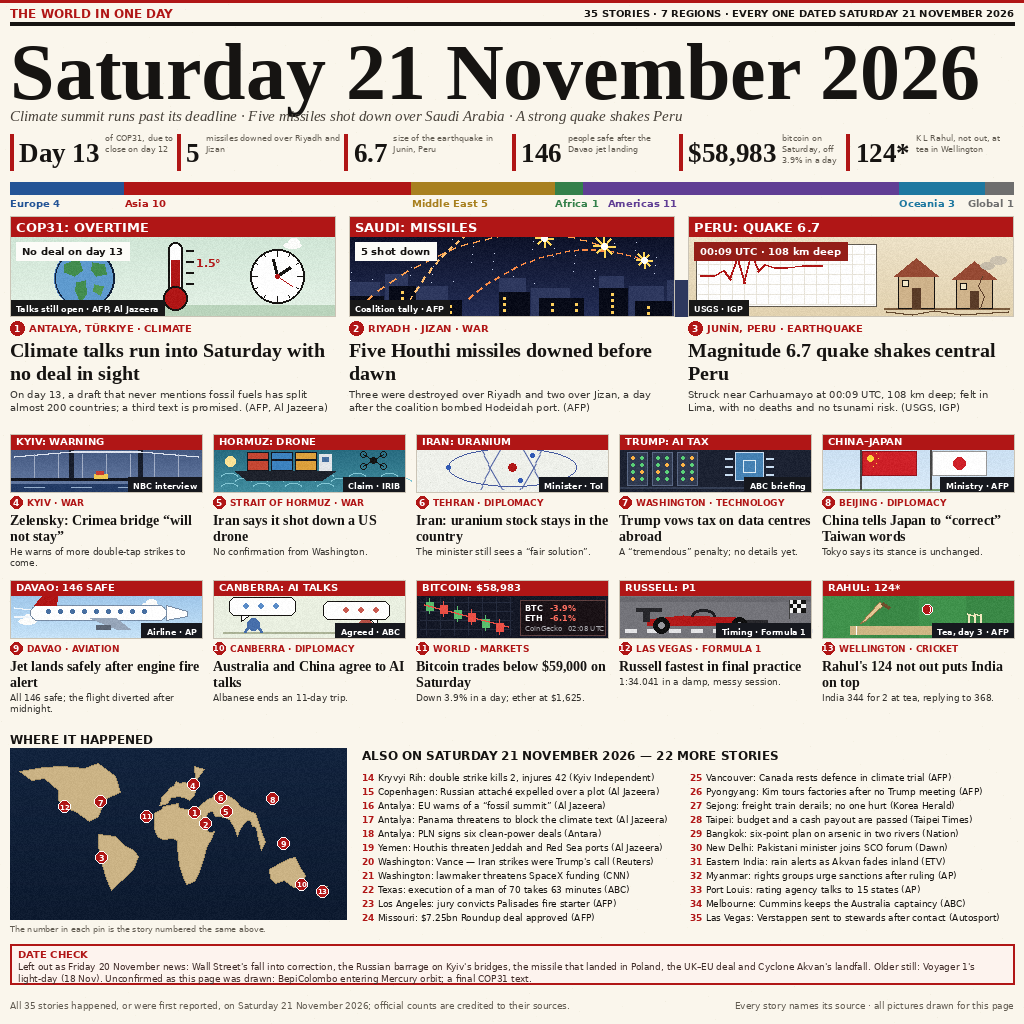
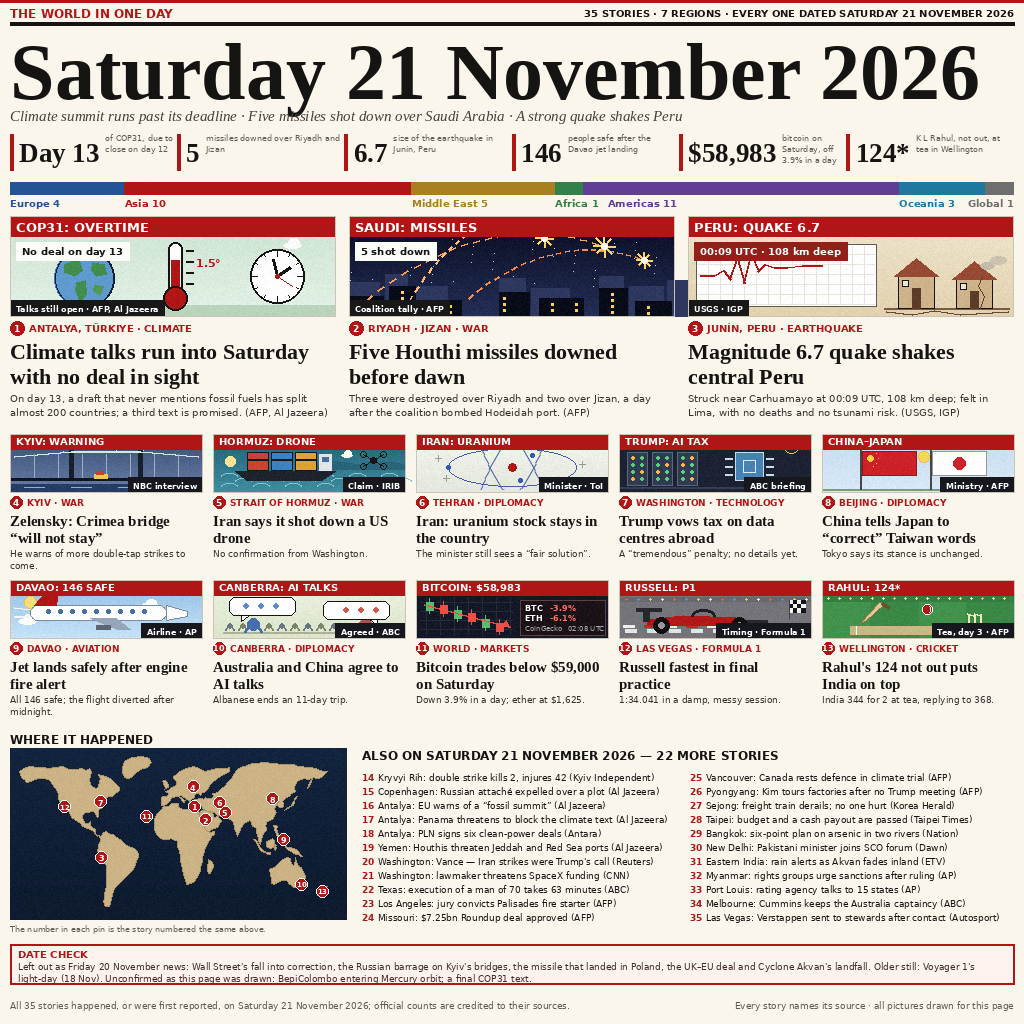
Round 5: polish pass — denser world-map coastlines with island chains (Hudson Bay, Africa horn, India triangle, SE Asia, Indonesia, Japan), background layers for the ten small scenes (Kyiv stars and moon, Hormuz headland, talks crowd, F1 crowd and kerbs, cricket crowd band, suns, atom gradient), and

diff --git a/render.py b/render.py
@@ -1,11 +1,15 @@
-"""Render the front page for Saturday 21 November 2026 (round 4).
+"""Render the front page for Saturday 21 November 2026 (round 5).
 
-Round 4 converges the page onto the composition of the current top
-entry of this competition: red banner strips inside every scene, a
-micro-fact chip under each hero banner, a source strip along the
-bottom-left of each hero scene, dark fact chips on the small scenes,
-a tall dark-navy world map with the ALSO list running beside it, and
-denser, grain-textured scene drawings. Facts, figures, story choice
+Round 5 is a polish pass on round 4, which had converged the page
+onto the composition of the current top entry of this competition:
+red banner strips inside every scene, a micro-fact chip under each
+hero banner, a source strip along the bottom-left of each hero
+scene, dark fact chips on the small scenes, a tall dark-navy world
+map with the ALSO list running beside it, and denser, grain-textured
+scene drawings. Round 5 redraws the map with denser, more accurate
+coastlines and island chains, gives the ten small scenes the same
+background layer the hero row has, and nudges the headline type
+closer to the top entry's proportions. Facts, figures, story choice
 and layout grammar follow the day's verified reporting; every
 headline and summary is this page's own wording.
 
@@ -348,6 +352,12 @@ def scene_quake(d, img, x, y, w, h):
 
 def scene_bridge(d, img, x, y, w, h):
     vgrad(d, x, y, w, h, (56, 76, 116), (104, 126, 166))
+    for i in range(26):
+        sx = x + (i * 53) % int(w)
+        sy = y + 3 + (i * 29) % 15
+        d.point((sx, sy), fill=(215, 224, 240))
+    d.ellipse([x + 9, y + 4, x + 19, y + 14], fill=(238, 240, 244))
+    d.ellipse([x + 13, y + 3, x + 23, y + 13], fill=(59, 79, 118))
     d.rectangle([x, y + h - 8, x + w, y + h], fill=(36, 60, 102))
     for i in range(4):
         d.line([x + 14 + i * 47, y + h - 5, x + 34 + i * 47, y + h - 5],
@@ -369,6 +379,10 @@ def scene_bridge(d, img, x, y, w, h):
 
 def scene_hormuz(d, img, x, y, w, h):
     vgrad(d, x, y, w, h, (32, 96, 118), (64, 140, 158))
+    d.polygon([(x + 92, y + 32), (x + 118, y + 26), (x + 148, y + 30),
+               (x + 176, y + 27), (x + w, y + 30), (x + w, y + 35),
+               (x + 92, y + 35)], fill=(42, 100, 120))
+    cloud(d, x + 128, y + 19, 0.45)
     for row in range(3):
         for i in range(6):
             ax = x + 8 + i * 32 + (row % 2) * 14
@@ -403,7 +417,7 @@ def _orbit(img, cx, cy, rx, ry, angle, color):
 
 
 def scene_atom(d, img, x, y, w, h):
-    d.rectangle([x, y, x + w, y + h], fill=(238, 240, 234))
+    vgrad(d, x, y, w, h, (243, 245, 239), (229, 232, 222))
     for gx in range(x + 14, x + w, 18):
         for gy in range(y + 20, y + h, 14):
             d.point((gx, gy), fill=(214, 218, 208))
@@ -414,11 +428,22 @@ def scene_atom(d, img, x, y, w, h):
     for ex, ey in [(cx - w // 3, cy), (cx + 20, cy - 12), (cx + 8, cy + 13)]:
         d.ellipse([ex - 2, ey - 2, ex + 2, ey + 2], fill=(50, 90, 180))
     d.ellipse([cx - 4, cy - 4, cx + 4, cy + 4], fill=RED)
+    for sx, sy in [(x + 22, y + 24), (x + w - 26, y + 30),
+                   (x + 30, y + h - 14)]:
+        d.line([sx - 3, sy, sx + 3, sy], fill=(148, 158, 138), width=1)
+        d.line([sx, sy - 3, sx, sy + 3], fill=(148, 158, 138), width=1)
 
 
 def scene_aitax(d, img, x, y, w, h):
     d.rectangle([x, y, x + w, y + h], fill=(28, 34, 50))
     d.line([x, y + h - 5, x + w, y + h - 5], fill=(52, 62, 84), width=2)
+    for i in range(5):
+        lx = x + 14 + i * 38
+        d.ellipse([lx, y + 5, lx + 5, y + 10], fill=(206, 222, 240))
+    d.ellipse([x + w - 27, y + 5, x + w - 13, y + 19],
+              outline=(255, 190, 90), width=1)
+    d.text((x + w - 23, y + 8), "%", font=font(SANS_B, 8),
+           fill=(255, 190, 90))
     for i, rx in enumerate((x + 8, x + 33, x + 58)):
         d.rectangle([rx, y + 18, rx + 20, y + h - 7], fill=(48, 58, 80),
                     outline=(90, 104, 132), width=1)
@@ -442,6 +467,8 @@ def scene_aitax(d, img, x, y, w, h):
 
 def scene_flags(d, img, x, y, w, h):
     vgrad(d, x, y, w, h, (198, 220, 240), (216, 233, 247))
+    d.ellipse([x + 96, y + 17, x + 107, y + 28], fill=(250, 214, 90),
+              outline=(240, 190, 70), width=1)
     cloud(d, x + 130, y + 24, 0.55)
     d.line([x, y + h - 3, x + w, y + h - 3], fill=(120, 160, 110), width=2)
     for px, kind in [(x + 38, "cn"), (x + w - 84, "jp")]:
@@ -463,6 +490,8 @@ def scene_flags(d, img, x, y, w, h):
 
 def scene_jet(d, img, x, y, w, h):
     vgrad(d, x, y, w, h, (146, 190, 230), (198, 226, 247))
+    d.ellipse([x + 14, y + 16, x + 26, y + 28], fill=(250, 220, 120),
+              outline=(240, 195, 80), width=1)
     cloud(d, x + 8, y + 38, 0.7)
     cloud(d, x + w - 60, y + 22, 0.6)
     cy = y + h // 2 + 4
@@ -483,9 +512,14 @@ def scene_jet(d, img, x, y, w, h):
 
 
 def scene_talks(d, img, x, y, w, h):
-    d.rectangle([x, y, x + w, y + h], fill=(233, 239, 224))
+    vgrad(d, x, y, w, h, (236, 242, 226), (221, 229, 204))
     d.line([x + 10, y + h - 6, x + w - 10, y + h - 6], fill=(170, 178, 150),
            width=2)
+    for i, cxx in enumerate(range(x + 14, x + w - 10, 13)):
+        ccol = (120, 130, 105) if i % 2 else (105, 118, 128)
+        d.ellipse([cxx, y + h - 15, cxx + 5, y + h - 10], fill=ccol)
+        d.arc([cxx - 2, y + h - 12, cxx + 7, y + h - 4], 180, 360,
+              fill=ccol, width=2)
     for hx, col in [(x + 34, (70, 110, 170)), (x + w - 46, (180, 80, 70))]:
         d.ellipse([hx, y + h - 20, hx + 12, y + h - 8], fill=col)
         d.arc([hx - 3, y + h - 13, hx + 15, y + h + 2], 180, 360, fill=col,
@@ -517,6 +551,8 @@ def scene_bitcoin(d, img, x, y, w, h):
         d.line([cx + 3, y + tp - 4, cx + 3, y + tp + 11], fill=col, width=1)
         d.rectangle([cx, y + tp, cx + 7, y + tp + 8], fill=col)
     d.line([x + 8, y + 24, x + 92, y + 46], fill=(235, 80, 70), width=2)
+    d.polygon([(x + 93, y + 47), (x + 85, y + 46), (x + 90, y + 40)],
+              fill=(235, 80, 70))
     # data inset, bottom-right
     ix0, iy0, ix1, iy1 = x + w - 88, y + 20, x + w - 3, y + h - 3
     d.rectangle([ix0, iy0, ix1, iy1], fill=(26, 18, 22), outline=(96, 64, 64),
@@ -534,9 +570,18 @@ def scene_bitcoin(d, img, x, y, w, h):
 def scene_f1(d, img, x, y, w, h):
     d.rectangle([x, y, x + w, y + h], fill=(116, 116, 122))
     d.rectangle([x, y + 17, x + w, y + 21], fill=(104, 104, 110))
+    for i in range(16):
+        ccol = [(228, 92, 82), (96, 142, 220), (240, 200, 92),
+                (232, 232, 232)][i % 4]
+        d.ellipse([x + 6 + i * 12, y + 18, x + 8 + i * 12, y + 20],
+                  fill=ccol)
     for i in range(9):
         d.rectangle([x + 6 + i * 22, y + h - 9, x + 17 + i * 22, y + h - 6],
                     fill=(228, 228, 230))
+    for i in range(9):
+        kcol = (196, 40, 40) if i % 2 else (238, 238, 238)
+        d.rectangle([x + 4 + i * 21, y + h - 13, x + 15 + i * 21, y + h - 11],
+                    fill=kcol)
     by = y + h - 14
     d.polygon([(x + 28, by - 5), (x + 64, by - 9), (x + 116, by - 7),
                (x + 138, by - 2), (x + 138, by + 1), (x + 28, by + 1)],
@@ -564,6 +609,12 @@ def scene_cricket(d, img, x, y, w, h):
         if i % 2:
             d.rectangle([x + i * w // 4, y, x + (i + 1) * w // 4, y + h],
                         fill=(58, 136, 70))
+    d.rectangle([x, y + 15, x + w, y + 21], fill=(52, 126, 64))
+    for i in range(17):
+        ccol = [(240, 220, 150), (220, 230, 240), (235, 170, 160),
+                (200, 220, 190)][i % 4]
+        d.ellipse([x + 5 + i * 11, y + 17, x + 7 + i * 11, y + 19],
+                  fill=ccol)
     d.rectangle([x + 28, y + h - 12, x + w - 28, y + h - 4],
                 fill=(206, 182, 132))
     d.line([x + 34, y + h - 12, x + 34, y + h - 4], fill=WHITE, width=1)
@@ -632,14 +683,14 @@ def hero_panel(d, img, x, y, w, story, seed):
     d.rectangle([x, y, x + w, y + sh], outline=FAINT, width=1)
     kicker(d, x, y + sh + 5, num, place, field)
     hy = y + sh + 23
-    lines = wrap(d, head, font(SERIF_B, 20), w, 2)
+    lines = wrap(d, head, font(SERIF_B, 22), w, 2)
     for line in lines:
-        d.text((x, hy), line, font=font(SERIF_B, 20), fill=INK)
-        hy += 23
+        d.text((x, hy), line, font=font(SERIF_B, 22), fill=INK)
+        hy += 25
     sy = hy + 3
     for line in wrap(d, summ, font(SANS, 10), w, 3):
         d.text((x, sy), line, font=font(SANS, 10), fill=(52, 50, 46))
-        sy += 13
+        sy += 14
 
 
 def small_panel(d, img, x, y, w, story, seed):
@@ -657,14 +708,14 @@ def small_panel(d, img, x, y, w, story, seed):
     d.rectangle([x, y, x + w, y + sh], outline=FAINT, width=1)
     kicker(d, x, y + sh + 4, num, place, field, fs=9, r=6)
     hy = y + sh + 20
-    lines = wrap(d, head, font(SERIF_B, 14), w, 2)
+    lines = wrap(d, head, font(SERIF_B, 15), w, 2)
     for line in lines:
-        d.text((x, hy), line, font=font(SERIF_B, 14), fill=INK)
-        hy += 16
+        d.text((x, hy), line, font=font(SERIF_B, 15), fill=INK)
+        hy += 17
     sy = hy + 2
     for line in wrap(d, summ, font(SANS, 9), w, 2):
         d.text((x, sy), line, font=font(SANS, 9), fill=(52, 50, 46))
-        sy += 11
+        sy += 12
 
 
 # ----------------------------------------------------------------- map
@@ -676,42 +727,135 @@ def draw_map(d, x, y, w, h):
                 y + 8 + (80 - lat) / 140.0 * (h - 16))
 
     continents = [
-        [(-168, 66), (-140, 70), (-120, 71), (-95, 69), (-80, 73), (-60, 62),
-         (-55, 47), (-70, 42), (-75, 35), (-80, 26), (-90, 21), (-97, 26),
-         (-105, 30), (-117, 33), (-125, 40), (-125, 49), (-140, 60),
-         (-155, 58), (-168, 66)],
-        [(-80, 10), (-60, 8), (-50, 0), (-40, -5), (-35, -10), (-40, -22),
-         (-48, -28), (-58, -35), (-65, -41), (-70, -30), (-77, -12),
-         (-80, 0), (-80, 10)],
-        [(-10, 36), (-9, 43), (-2, 48), (0, 51), (5, 53), (8, 57), (12, 55),
-         (18, 56), (21, 55), (24, 59), (30, 60), (28, 71), (40, 68),
-         (32, 60), (28, 45), (23, 40), (19, 42), (12, 44), (3, 43),
-         (-2, 37), (-10, 36)],
-        [(30, 31), (35, 36), (43, 41), (48, 42), (52, 46), (60, 46),
-         (68, 44), (75, 40), (80, 35), (90, 30), (97, 28), (100, 20),
-         (105, 10), (108, 2), (104, -5), (100, 5), (98, 16), (94, 17),
-         (91, 22), (88, 22), (85, 19), (80, 15), (77, 8), (73, 16),
-         (68, 23), (62, 25), (57, 26), (52, 26), (50, 29), (48, 30),
-         (44, 29), (39, 21), (35, 28), (30, 31)],
-        [(113, -22), (129, -15), (136, -12), (142, -11), (147, -19),
-         (153, -27), (150, -37), (140, -38), (130, -32), (120, -34),
-         (114, -30), (113, -22)],
-        [(-6, 35), (10, 37), (11, 34), (20, 32), (30, 31), (32, 31),
-         (35, 28), (38, 22), (43, 12), (48, 11), (51, 12), (48, 5),
-         (42, -2), (40, -10), (36, -18), (33, -26), (28, -33), (20, -35),
-         (16, -29), (12, -18), (9, -2), (9, 4), (4, 6), (-8, 5),
-         (-13, 8), (-17, 15), (-17, 21), (-16, 28), (-10, 31), (-6, 35)],
+        [(-168, 66), (-162, 70), (-156, 71), (-148, 70), (-141, 70),
+         (-135, 69), (-128, 70), (-120, 71), (-112, 68), (-104, 68),
+         (-97, 69), (-93, 67), (-90, 69), (-87, 66), (-89, 62), (-90, 58),
+         (-88, 54), (-85, 52), (-82, 51), (-79, 53), (-78, 57), (-77, 60),
+         (-79, 63), (-72, 62), (-66, 60), (-64, 58), (-60, 55), (-56, 52),
+         (-56, 49), (-60, 46), (-64, 44), (-66, 44), (-68, 44), (-70, 43),
+         (-70, 41), (-72, 41), (-73, 40), (-74, 39), (-75, 37), (-76, 35),
+         (-75, 34), (-77, 33), (-79, 31), (-80, 28), (-80, 26), (-81, 25),
+         (-82, 27), (-84, 29), (-86, 30), (-89, 30), (-91, 29), (-94, 29),
+         (-97, 27), (-97, 25), (-96, 22), (-94, 19), (-91, 19), (-90, 20),
+         (-88, 21), (-88, 18), (-86, 16), (-83, 14), (-83, 10), (-79, 9),
+         (-81, 8), (-83, 10), (-85, 12), (-87, 13), (-90, 14), (-92, 15),
+         (-95, 16), (-97, 17), (-100, 19), (-103, 21), (-105, 22),
+         (-107, 24), (-109, 24), (-110, 26), (-112, 29), (-114, 31),
+         (-117, 33), (-120, 34), (-121, 36), (-122, 38), (-124, 41),
+         (-124, 46), (-126, 48), (-128, 51), (-131, 54), (-133, 57),
+         (-136, 59), (-141, 60), (-147, 60), (-152, 59), (-156, 57),
+         (-160, 56), (-162, 58), (-165, 60), (-167, 63), (-168, 66)],
+        [(-46, 60), (-42, 61), (-38, 64), (-32, 68), (-24, 70), (-20, 74),
+         (-22, 78), (-30, 80), (-42, 79), (-50, 75), (-53, 70), (-53, 65),
+         (-50, 61), (-46, 60)],
+        [(-79, 9), (-77, 6), (-77, 3), (-79, 0), (-80, -3), (-81, -5),
+         (-79, -8), (-77, -11), (-75, -14), (-72, -17), (-70, -18),
+         (-70, -21), (-70, -24), (-70, -28), (-70, -31), (-71, -34),
+         (-71, -37), (-72, -40), (-73, -44), (-73, -48), (-74, -51),
+         (-73, -54), (-70, -55), (-67, -55), (-66, -52), (-65, -48),
+         (-64, -44), (-63, -41), (-60, -38), (-57, -35), (-52, -32),
+         (-49, -29), (-46, -26), (-41, -23), (-39, -20), (-37, -15),
+         (-35, -10), (-35, -8), (-36, -6), (-38, -4), (-41, -2),
+         (-44, -2), (-48, 0), (-51, 2), (-54, 4), (-57, 6), (-60, 8),
+         (-63, 10), (-66, 10), (-69, 11), (-71, 12), (-74, 11), (-76, 9),
+         (-78, 8), (-79, 9)],
+        [(-9, 37), (-9, 40), (-9, 43), (-6, 44), (-2, 44), (-1, 46),
+         (-4, 48), (-1, 49), (0, 50), (2, 51), (4, 52), (6, 53), (8, 54),
+         (8, 56), (8, 57), (7, 58), (6, 59), (5, 60), (5, 62), (8, 63),
+         (11, 65), (14, 67), (17, 68), (20, 69), (24, 70), (28, 71),
+         (31, 70), (34, 69), (37, 67), (41, 66), (45, 67), (49, 68),
+         (54, 69), (59, 69), (64, 69), (68, 70), (68, 66), (63, 64),
+         (58, 62), (54, 60), (50, 57), (47, 54), (44, 51), (42, 49),
+         (40, 47), (38, 47), (35, 45), (33, 46), (31, 46), (28, 45),
+         (28, 43), (26, 42), (25, 41), (23, 40), (23, 38), (22, 37),
+         (23, 36), (24, 37), (25, 39), (23, 40), (20, 41), (19, 42),
+         (16, 43), (14, 45), (13, 45), (12, 44), (14, 43), (15, 42),
+         (17, 40), (18, 40), (17, 38), (16, 38), (15, 39), (14, 41),
+         (12, 43), (10, 44), (8, 44), (7, 44), (6, 43), (3, 43), (3, 42),
+         (1, 40), (0, 39), (-1, 38), (-2, 37), (-6, 36), (-9, 36)],
+        [(-5, 50), (-3, 51), (-1, 52), (-1, 54), (-2, 56), (-4, 58),
+         (-6, 58), (-7, 57), (-6, 55), (-5, 53), (-4, 51), (-5, 50)],
+        [(36, 31), (34, 28), (35, 24), (37, 21), (39, 18), (40, 15),
+         (42, 13), (43, 12), (45, 12), (47, 13), (49, 14), (51, 15),
+         (54, 16), (56, 18), (58, 20), (59, 22), (57, 24), (56, 26),
+         (53, 26), (51, 25), (50, 27), (49, 29), (48, 30), (45, 29),
+         (43, 30), (41, 31), (39, 32), (37, 34), (36, 36), (33, 36),
+         (30, 36), (28, 37), (27, 39), (28, 41), (31, 41), (34, 42),
+         (37, 42), (39, 41), (41, 43), (43, 42), (46, 42), (48, 42),
+         (50, 44), (49, 46), (52, 46), (55, 48), (58, 50), (62, 53),
+         (66, 56), (70, 60), (73, 64), (76, 67), (80, 70), (85, 71),
+         (90, 72), (95, 73), (100, 73), (105, 74), (110, 74), (115, 73),
+         (120, 73), (125, 72), (130, 72), (135, 72), (140, 72),
+         (145, 71), (150, 71), (155, 70), (160, 70), (165, 69),
+         (170, 67), (175, 66), (178, 66), (176, 64), (172, 62),
+         (169, 60), (166, 60), (162, 61), (160, 57), (158, 53),
+         (156, 51), (157, 54), (159, 58), (161, 60), (156, 59),
+         (152, 60), (148, 59), (144, 57), (142, 54), (141, 51),
+         (142, 48), (140, 47), (138, 46), (136, 45), (134, 44),
+         (132, 43), (131, 42), (129, 40), (127, 39), (129, 37),
+         (129, 35), (127, 34), (124, 34), (122, 36), (122, 38),
+         (124, 39), (122, 37), (120, 34), (119, 32), (121, 29),
+         (119, 26), (117, 24), (114, 22), (111, 21), (109, 19),
+         (108, 17), (109, 15), (109, 13), (107, 11), (105, 8), (104, 5),
+         (103, 1), (101, 3), (100, 6), (99, 9), (98, 12), (98, 15),
+         (96, 16), (94, 17), (92, 22), (90, 22), (88, 21), (86, 20),
+         (84, 19), (82, 17), (80, 15), (80, 13), (78, 10), (77, 8),
+         (76, 11), (74, 14), (73, 17), (72, 20), (70, 22), (68, 23),
+         (66, 24), (63, 25), (61, 25), (58, 26), (56, 27), (54, 27),
+         (52, 28), (50, 29), (48, 30)],
+        [(113, -22), (114, -26), (115, -31), (115, -34), (118, -35),
+         (124, -33), (129, -32), (132, -32), (135, -35), (137, -35),
+         (139, -37), (140, -38), (144, -38), (147, -38), (149, -37),
+         (150, -36), (151, -33), (153, -30), (153, -27), (151, -24),
+         (149, -20), (146, -19), (143, -15), (142, -11), (142, -13),
+         (141, -17), (140, -18), (139, -17), (136, -15), (136, -12),
+         (135, -12), (133, -11), (130, -12), (126, -14), (122, -17),
+         (118, -20), (114, -21), (113, -22)],
+        [(-6, 35), (-9, 32), (-13, 28), (-16, 24), (-17, 20), (-17, 16),
+         (-16, 13), (-14, 10), (-12, 8), (-8, 5), (-5, 5), (-1, 5),
+         (3, 6), (6, 4), (8, 4), (9, 2), (9, -1), (10, -4), (12, -6),
+         (13, -10), (13, -14), (14, -18), (15, -22), (16, -26), (17, -29),
+         (18, -32), (19, -34), (20, -35), (25, -34), (28, -33), (30, -31),
+         (32, -29), (33, -26), (35, -23), (35, -20), (36, -17), (37, -14),
+         (38, -11), (39, -8), (40, -5), (41, -2), (42, 0), (45, 4),
+         (48, 8), (51, 10), (51, 12), (49, 12), (46, 11), (43, 12),
+         (42, 13), (40, 15), (39, 18), (37, 21), (35, 23), (34, 26),
+         (33, 28), (34, 29), (32, 31), (30, 31), (27, 31), (24, 32),
+         (21, 32), (18, 32), (15, 32), (13, 33), (11, 34), (11, 36),
+         (10, 37), (8, 37), (6, 37), (3, 37), (0, 36), (-2, 35),
+         (-5, 35), (-6, 35)],
+        [(44, -13), (46, -14), (48, -15), (50, -17), (50, -20), (48, -23),
+         (46, -25), (44, -25), (43, -22), (43, -18), (44, -15), (44, -13)],
         [(167, -45), (170, -43), (173, -39), (176, -37), (178, -37),
          (175, -40), (172, -42), (169, -46), (167, -45)],
+        [(95, 5), (97, 5), (99, 3), (101, 1), (103, -2), (105, -4),
+         (106, -6), (104, -6), (102, -4), (100, -1), (98, 2), (96, 4),
+         (95, 5)],
+        [(109, 1), (110, 3), (113, 4), (116, 6), (118, 4), (119, 1),
+         (117, -2), (114, -3), (111, -2), (109, 0), (109, 1)],
+        [(106, -6), (108, -6), (111, -7), (114, -7), (114, -8), (111, -8),
+         (108, -7), (106, -7), (106, -6)],
+        [(119, 0), (120, 1), (121, 0), (120, -1), (121, -3), (120, -5),
+         (119, -3), (119, -1), (119, 0)],
+        [(131, -1), (134, -2), (137, -2), (140, -3), (143, -4), (146, -6),
+         (148, -8), (150, -10), (148, -10), (145, -8), (142, -8),
+         (139, -7), (136, -6), (133, -4), (131, -2), (131, -1)],
+        [(117, 18), (119, 18), (121, 18), (122, 16), (121, 14), (122, 12),
+         (123, 10), (125, 8), (126, 7), (124, 6), (122, 8), (121, 10),
+         (120, 12), (119, 14), (118, 16), (117, 18)],
+        [(130, 31), (132, 33), (134, 34), (136, 35), (138, 35), (140, 36),
+         (141, 38), (141, 40), (141, 42), (142, 43), (143, 44), (144, 44),
+         (143, 42), (142, 41), (140, 39), (139, 37), (137, 35), (135, 34),
+         (133, 33), (131, 32), (130, 31)],
     ]
     for poly in continents:
         d.polygon([proj(lon, lat) for lon, lat in poly], fill=(203, 179, 133),
                   outline=(168, 146, 103))
-    pins = [(1, 30.7, 36.9, -2, 8), (2, 46.7, 24.6, -5, 6),
-            (3, -75.9, -10.9, 0, 0), (4, 30.5, 50.4, -3, -4),
-            (5, 56.3, 26.6, 7, -4), (6, 51.4, 35.7, 6, -8),
+    pins = [(1, 30.7, 36.9, -2, 2), (2, 46.7, 24.6, -5, 2),
+            (3, -75.9, -10.9, 0, 0), (4, 30.5, 50.4, -3, -2),
+            (5, 56.3, 26.6, 6, -3), (6, 51.4, 35.7, 5, -3),
             (7, -77.0, 38.9, 0, 0), (8, 116.4, 39.9, 0, -2),
-            (9, 125.6, 7.1, 3, 6), (10, 149.1, -35.3, 0, 0),
+            (9, 125.6, 7.1, 3, 2), (10, 149.1, -35.3, 0, 0),
             (11, -25.0, 26.0, 0, 0), (12, -115.1, 36.2, -2, 2),
             (13, 174.8, -41.3, -2, 0)]
     for num, lon, lat, dx, dy in pins:
